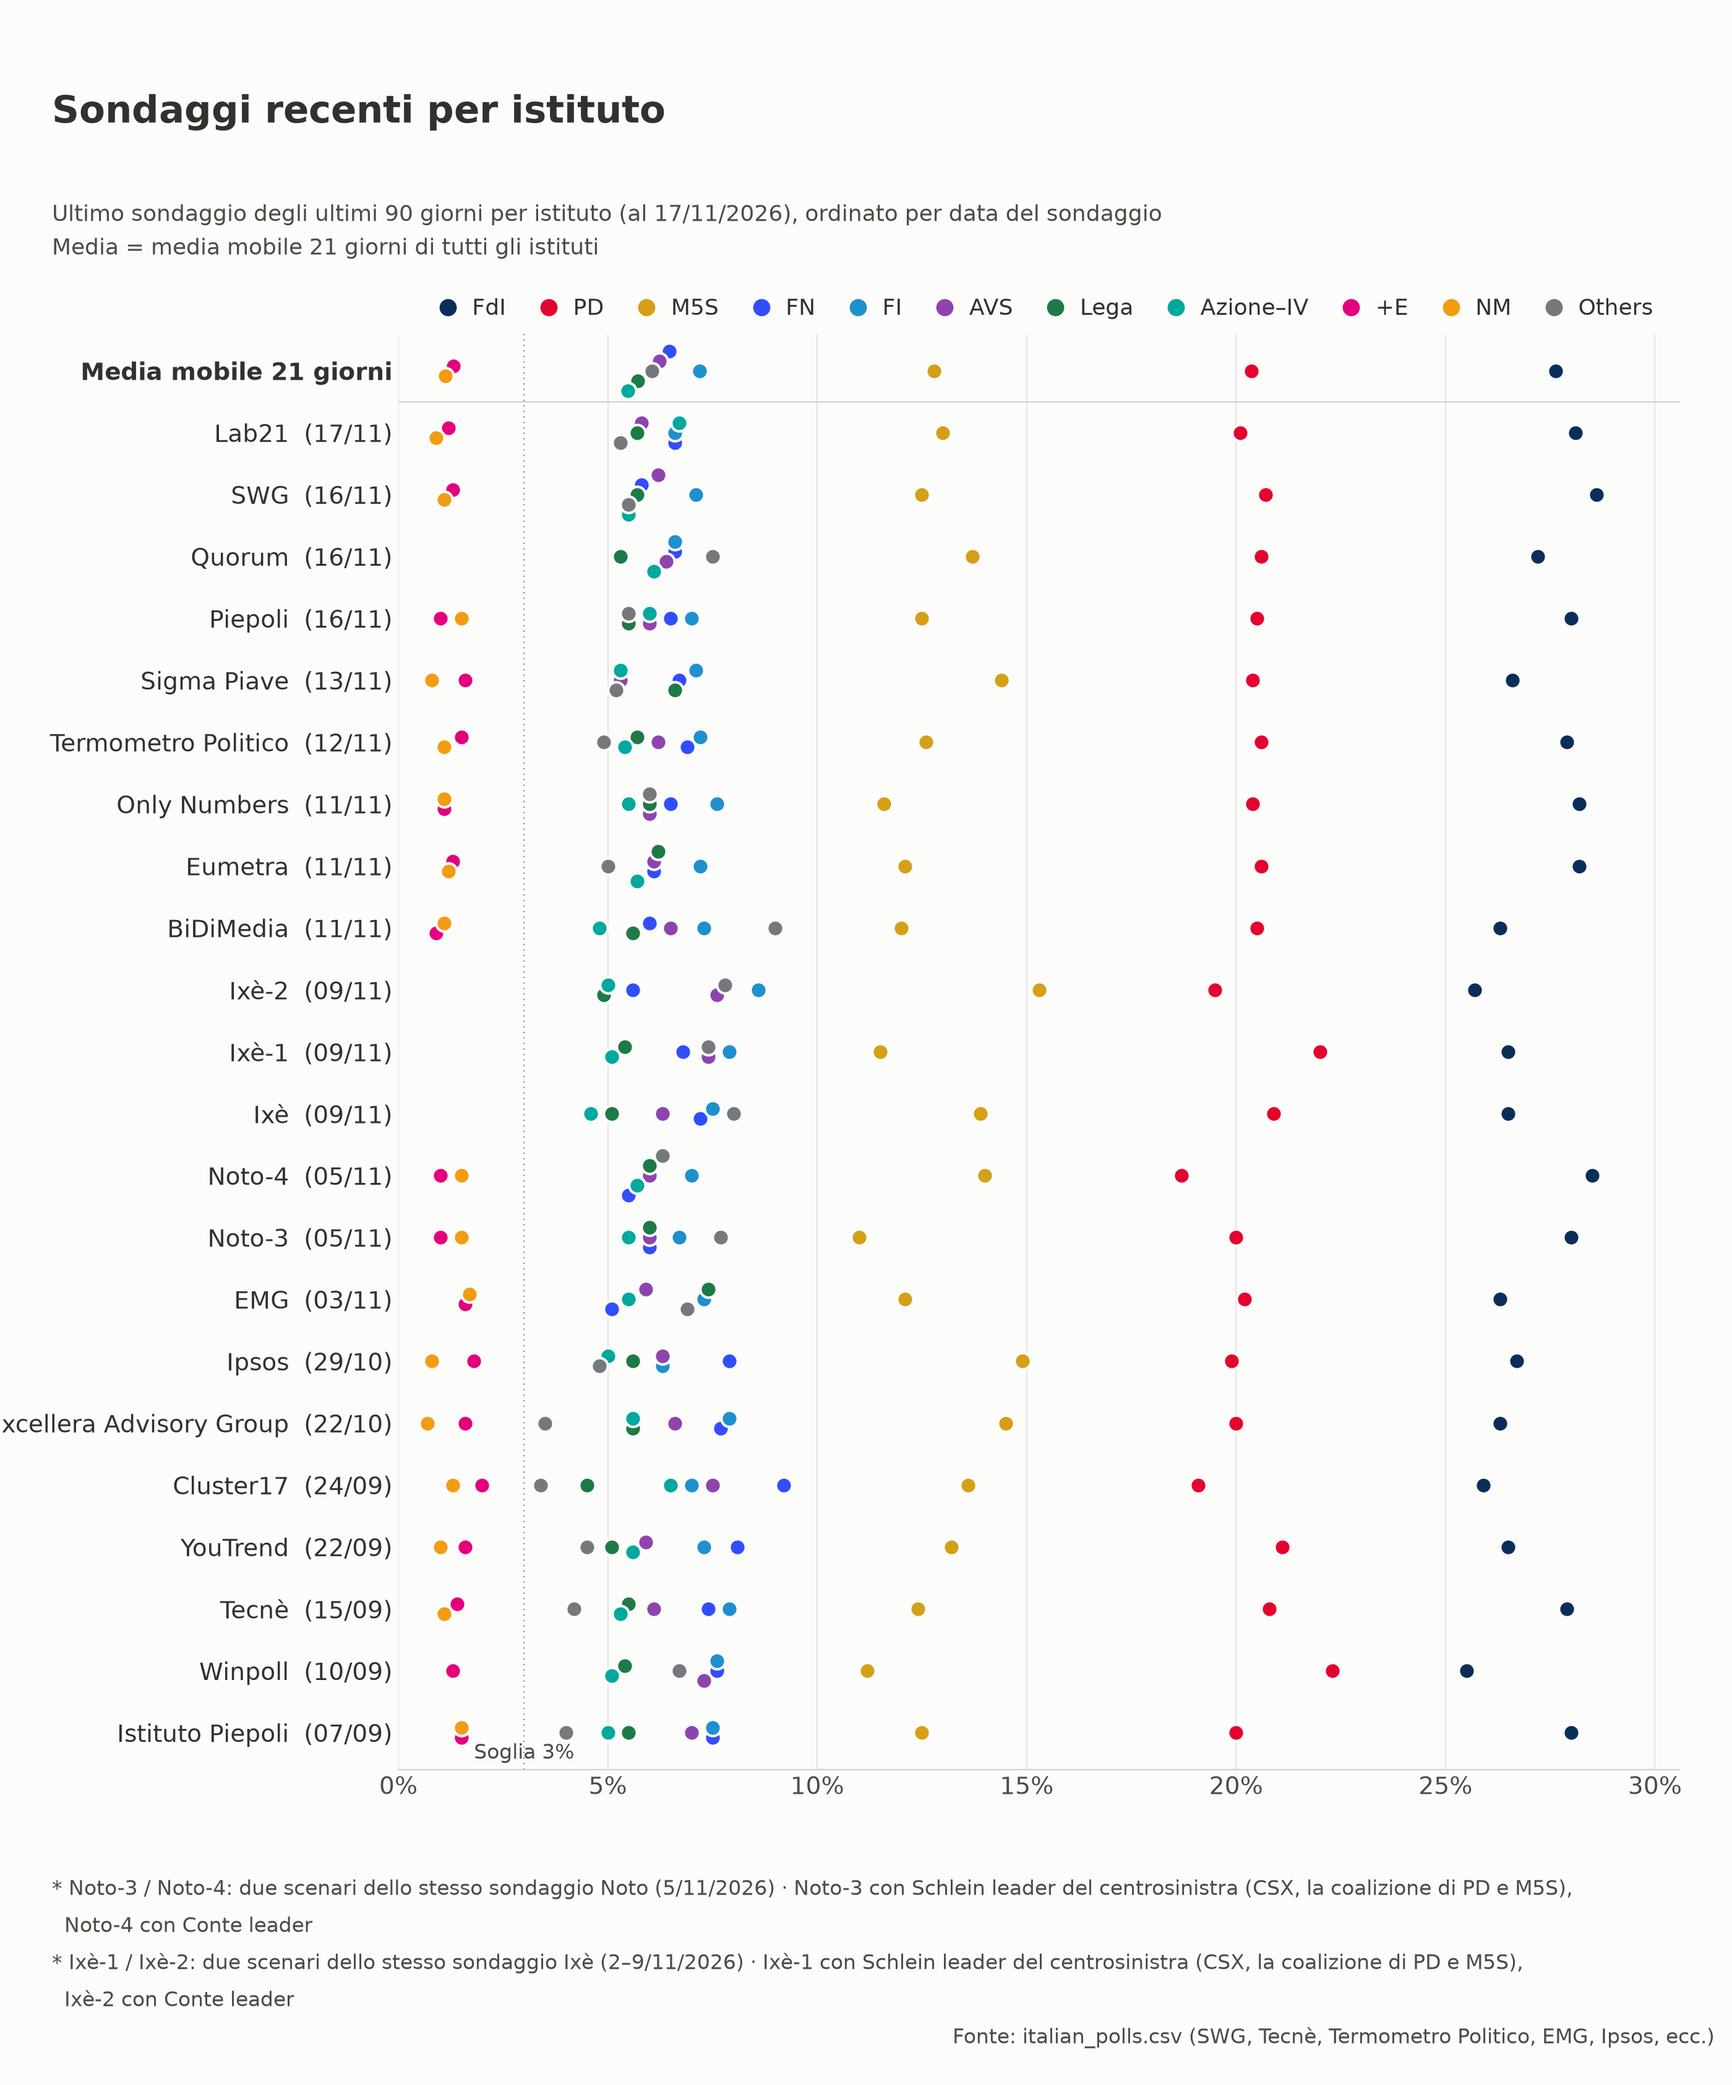
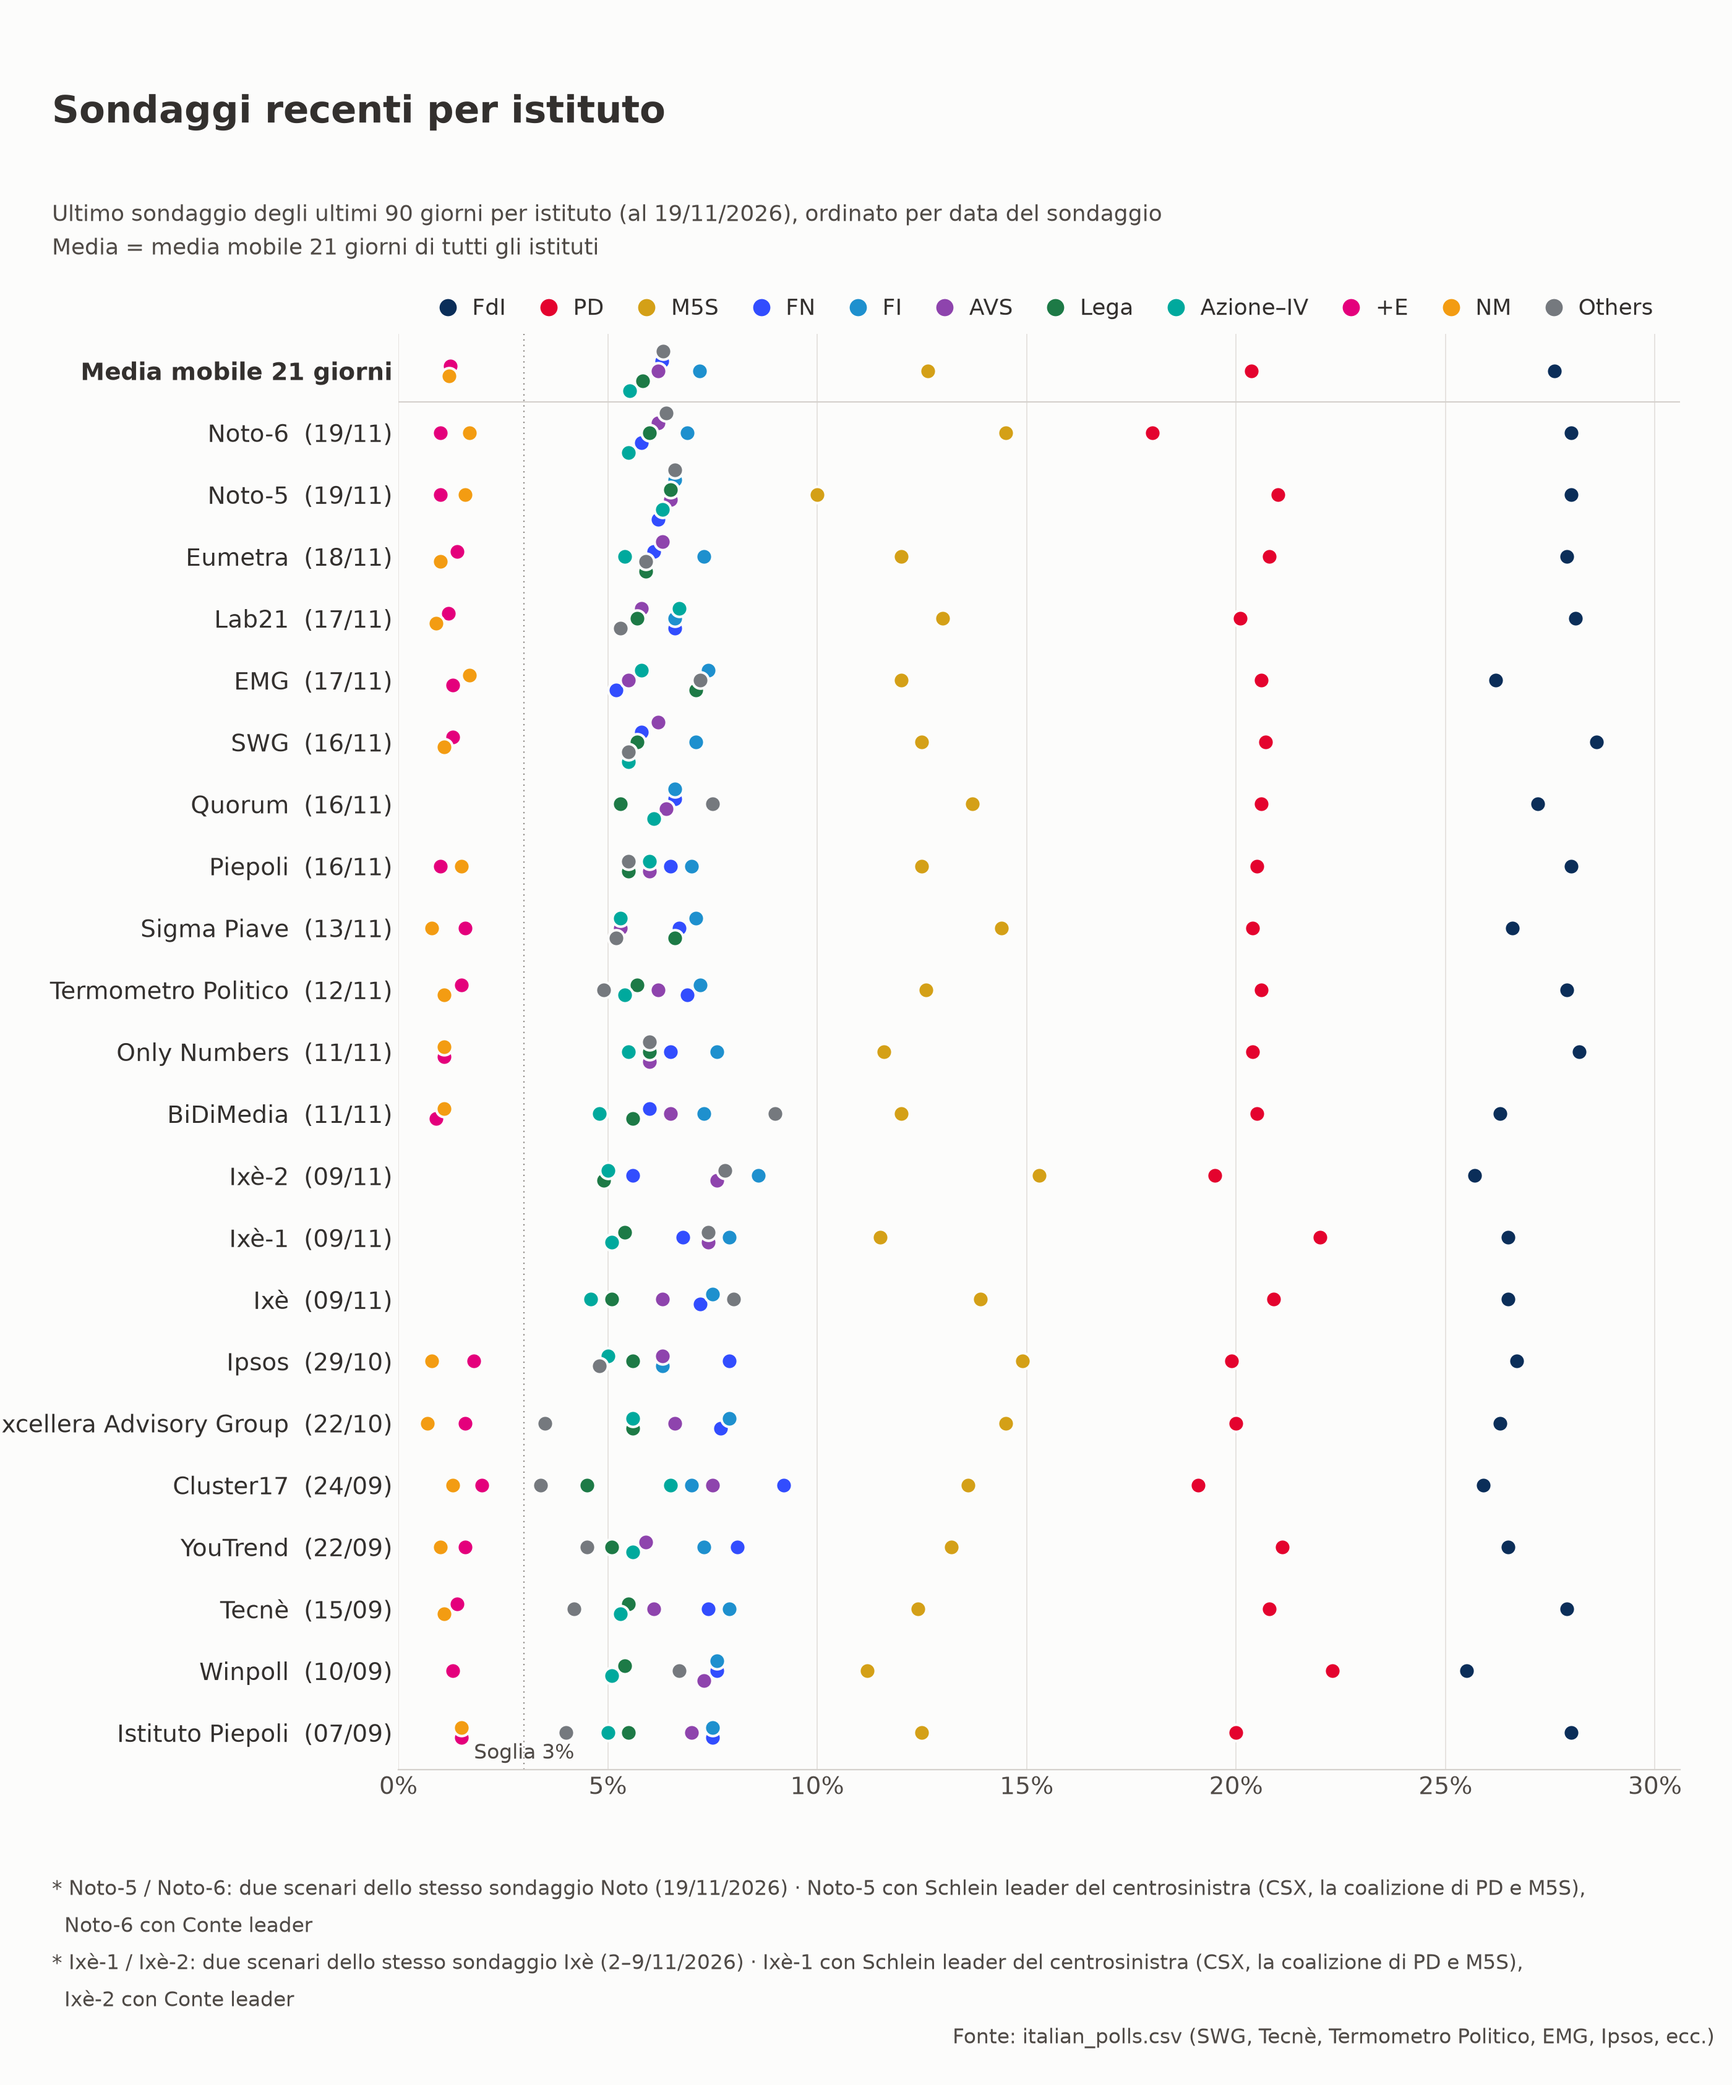
Add Noto (11-19, Schlein/Conte scenarios), Eumetra (11-17/11-18), and EMG (11-16/11-17) polls

diff --git a/main.py b/main.py
@@ -77,6 +77,11 @@ SCENARIO_NOTES = {
         "Noto-3 con Schlein leader del centrosinistra (CSX, la coalizione di PD e M5S), "
         "Noto-4 con Conte leader"
     ),
+    frozenset({"Noto-5", "Noto-6"}): (
+        "Noto-5 / Noto-6: due scenari dello stesso sondaggio Noto (19/11/2026) · "
+        "Noto-5 con Schlein leader del centrosinistra (CSX, la coalizione di PD e M5S), "
+        "Noto-6 con Conte leader"
+    ),
     frozenset({"Ixè-1", "Ixè-2"}): (
         "Ixè-1 / Ixè-2: due scenari dello stesso sondaggio Ixè (2–9/11/2026) · "
         "Ixè-1 con Schlein leader del centrosinistra (CSX, la coalizione di PD e M5S), "
